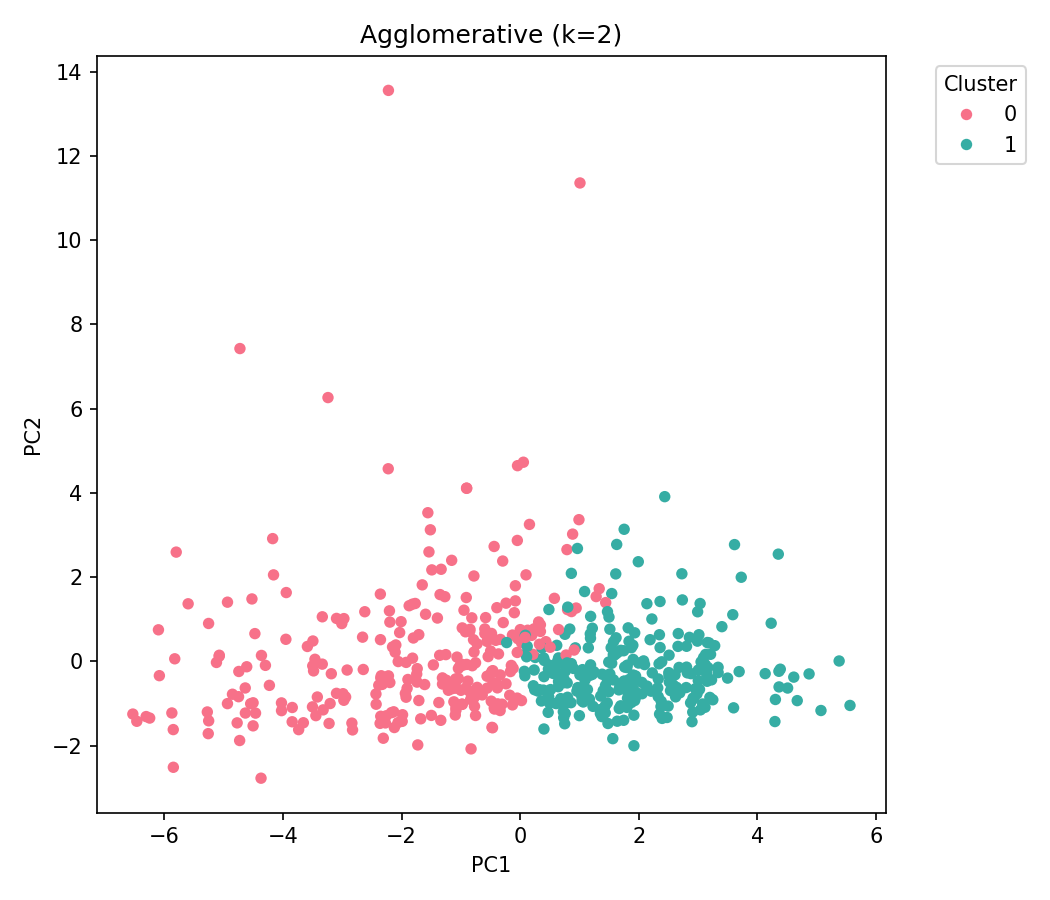
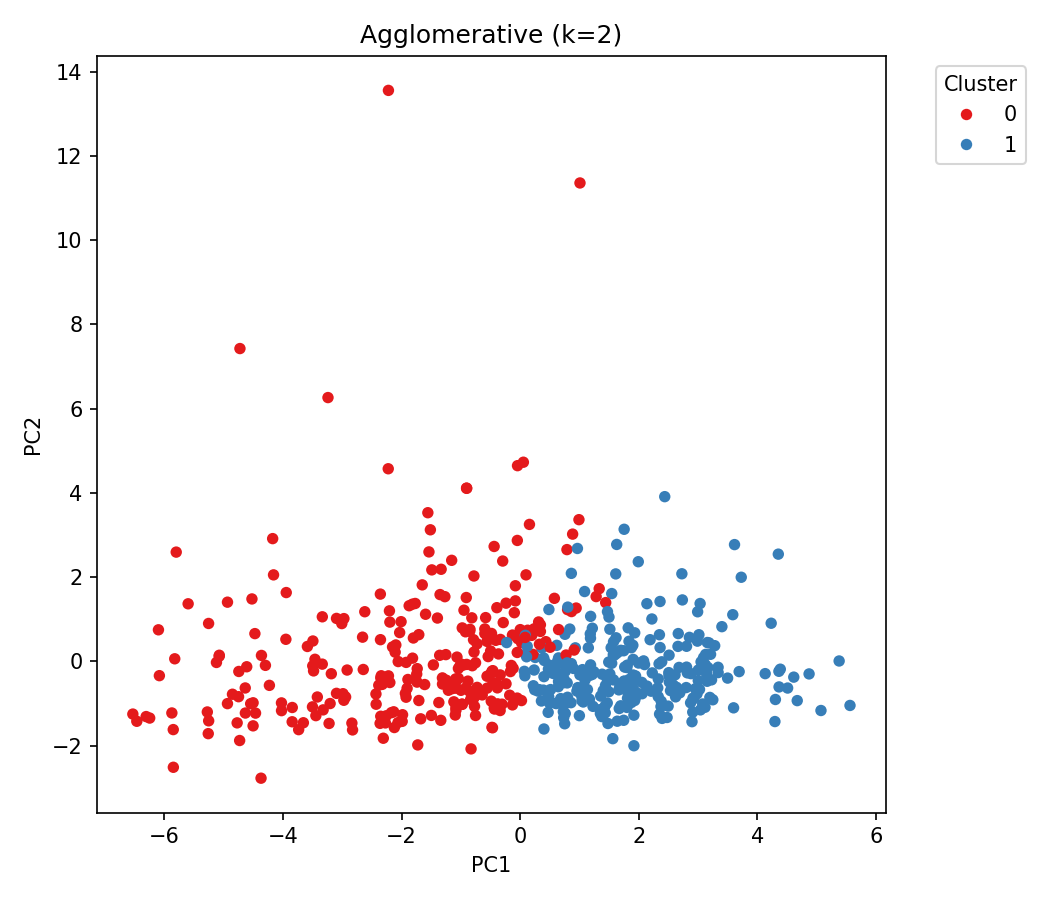
added changes in cluster colors

diff --git a/cluster_knowledge_trajectories.py b/cluster_knowledge_trajectories.py
@@ -20,6 +20,31 @@ import seaborn as sns
 warnings.filterwarnings("ignore")
 
 LEGEND_LOC_UPPER_LEFT = "upper left"
+CLUSTER_COLORS = [
+    "#E41A1C",  # strong red
+    "#377EB8",  # strong blue
+    "#4DAF4A",  # green
+    "#984EA3",  # purple
+    "#FF7F00",  # orange
+    "#00CED1",  # cyan
+    "#A65628",  # brown
+    "#F781BF",  # pink
+    "#1B9E77",  # teal
+    "#D95F02",  # dark orange
+    "#7570B3",  # indigo
+    "#E7298A",  # magenta
+    "#66A61E",  # olive green
+    "#E6AB02",  # mustard
+    "#A6761D",  # ochre
+]
+
+
+def get_cluster_palette(n: int) -> list:
+    if n <= len(CLUSTER_COLORS):
+        return CLUSTER_COLORS[:n]
+    reps = int(np.ceil(float(n) / float(len(CLUSTER_COLORS))))
+    pal = (CLUSTER_COLORS * reps)[:n]
+    return pal
 
 
 def _longest_streak(arr: np.ndarray, value: int = 1) -> int:
@@ -373,7 +398,7 @@ def tsne_scatter(X: np.ndarray, labels: np.ndarray, title: str, out_path: Path, 
     plt.figure(figsize=(7.0, 6.0))
     lbls_num = labels.astype(int)
     levels = [str(i) for i in sorted(np.unique(lbls_num))]
-    palette = sns.color_palette("husl", n_colors=len(levels))
+    palette = get_cluster_palette(len(levels))
     sns.scatterplot(
         x=X2[:, 0],
         y=X2[:, 1],
@@ -421,7 +446,7 @@ def umap_scatter(
     plt.figure(figsize=(7.0, 6.0))
     lbls_num = labels.astype(int)
     levels = [str(i) for i in sorted(np.unique(lbls_num))]
-    palette = sns.color_palette("husl", n_colors=len(levels))
+    palette = get_cluster_palette(len(levels))
     sns.scatterplot(
         x=X2[:, 0],
         y=X2[:, 1],
@@ -494,7 +519,7 @@ def _save_accuracy_speed_ellipse(feats: pd.DataFrame, labels: np.ndarray, out_pa
     plt.figure(figsize=(10, 7.5))
     ax = plt.gca()
     uniq = sorted(df[label_name].unique())
-    palette = sns.color_palette("husl", n_colors=len(uniq))
+    palette = get_cluster_palette(len(uniq))
     for i, k in enumerate(uniq):
         sub = df[df[label_name] == k]
         ax.scatter(sub[x], sub[y], s=10, alpha=0.15, color=palette[i])
@@ -876,7 +901,7 @@ def pca_scatter(X: np.ndarray, labels: np.ndarray, title: str, out_path: Path):
     # Ensure consistent colors and ordered legend (0..K-1)
     lbls_num = labels.astype(int)
     levels = [str(i) for i in sorted(np.unique(lbls_num))]
-    palette = sns.color_palette("husl", n_colors=len(levels))
+    palette = get_cluster_palette(len(levels))
     sns.scatterplot(
         x=X2[:, 0],
         y=X2[:, 1],
@@ -915,7 +940,7 @@ def lda_scatter(X: np.ndarray, labels: np.ndarray, title: str, out_path: Path):
         X2 = X_lda
     plt.figure(figsize=(7.0, 6.0))
     levels = [str(i) for i in sorted(uniq)]
-    palette = sns.color_palette("husl", n_colors=len(levels))
+    palette = get_cluster_palette(len(levels))
     sns.scatterplot(
         x=X2[:, 0],
         y=X2[:, 1],

diff --git a/marks_by_cluster.py b/marks_by_cluster.py
@@ -7,6 +7,34 @@ import seaborn as sns
 import matplotlib.pyplot as plt
 
 
+CLUSTER_COLORS = [
+    "#E41A1C",  # strong red
+    "#377EB8",  # strong blue
+    "#4DAF4A",  # green
+    "#984EA3",  # purple
+    "#FF7F00",  # orange
+    "#00CED1",  # cyan
+    "#A65628",  # brown
+    "#F781BF",  # pink
+    "#1B9E77",  # teal
+    "#D95F02",  # dark orange
+    "#7570B3",  # indigo
+    "#E7298A",  # magenta
+    "#66A61E",  # olive green
+    "#E6AB02",  # mustard
+    "#A6761D",  # ochre
+    "#666666",  # dark grey (used only if many clusters)
+]
+
+
+def get_cluster_palette(n: int) -> list:
+    if n <= len(CLUSTER_COLORS):
+        return CLUSTER_COLORS[:n]
+    reps = int(np.ceil(float(n) / float(len(CLUSTER_COLORS))))
+    pal = (CLUSTER_COLORS * reps)[:n]
+    return pal
+
+
 def _detect_id_col(df: pd.DataFrame) -> str:
     cand = [c for c in df.columns if c.lower() in {"idcode", "id", "studentid", "student_id"}]
     if cand:
@@ -123,7 +151,7 @@ def _save_subject_radar_all_clusters(df: pd.DataFrame, cluster_col: str, subj_co
     angles += angles[:1]
     plt.figure(figsize=(9, 7))
     ax = plt.subplot(111, polar=True)
-    palette = sns.color_palette("tab10", n_colors=len(zmean))
+    palette = get_cluster_palette(len(zmean))
     for i, (k, row) in enumerate(zmean.iterrows()):
         vals = row.values.astype(float)
         vals = np.clip(vals, -3.0, 3.0)
